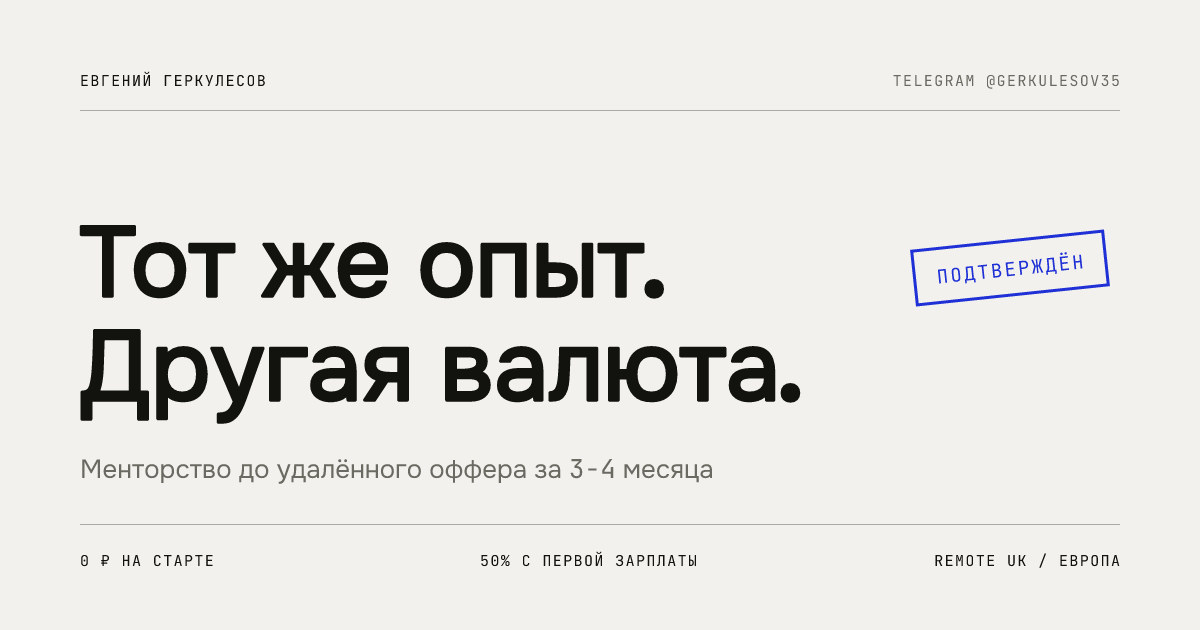
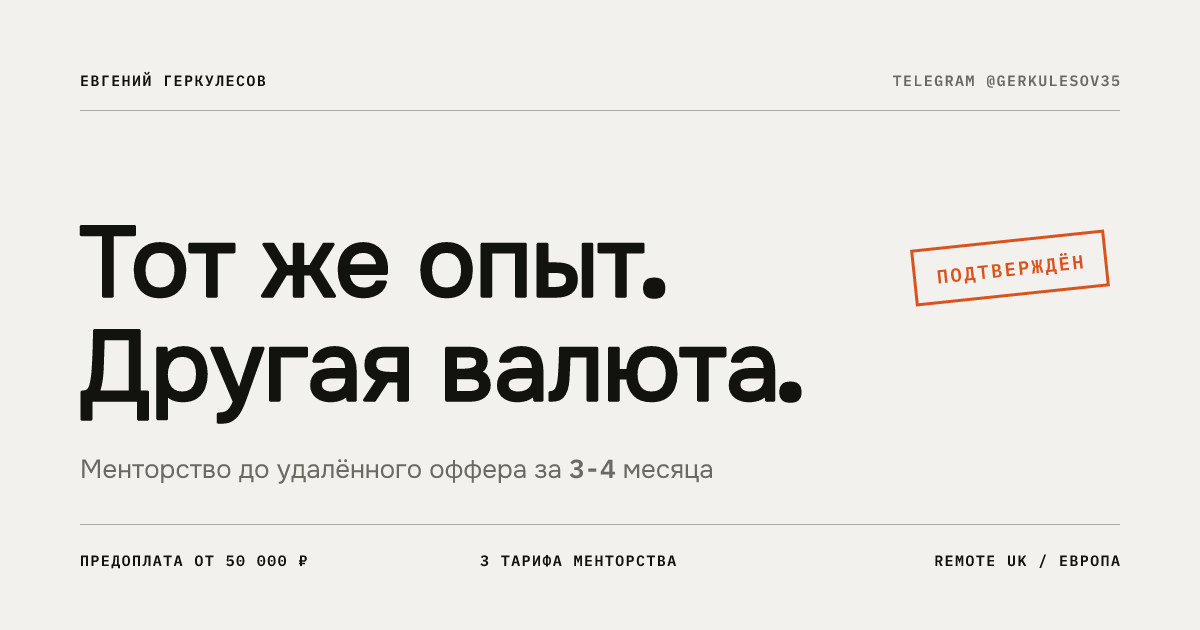
Добавить три тарифа менторства с предоплатой

diff --git a/src/i18n/ru.ts b/src/i18n/ru.ts
@@ -19,7 +19,7 @@ export const ru = {
     title: 'Евгений Геркулесов. Менторство до удалённого оффера в валюте',
     description:
       'Личное менторство для IT-специалистов с опытом: резюме и LinkedIn под remote-рынок, ' +
-      'собеседования на английском, переговоры по офферу. Ноль рублей на старте, оплата после выхода на работу.',
+      'собеседования на английском, переговоры по офферу. Три тарифа: с предоплатой и постоплатой или с полной оплатой на старте.',
   },
 
   /* short — для тесного хедера телефона: полный лейбл спорил с именем. */
@@ -101,8 +101,8 @@ export const ru = {
         'а уже к 21 работал удалённо на зарубежную компанию.',
       'Со мной, а не с командой кураторов, разберём резюме, отклики, собеседования ' +
         'и переговоры по офферу. Всё лично — без общих чатов и записанных уроков.',
-      'Почему мне можно верить: я не продаю доступ к материалам, мой доход привязан ' +
-        'к твоему офферу. Пока ты не выйдешь на работу, я зарабатываю ровно ноль.',
+      'Работа строится вокруг твоего поиска: разбираем реальные вакансии, ' +
+        'готовимся к конкретным интервью и обсуждаем условия оффера.',
     ],
   },
 
@@ -175,17 +175,18 @@ export const ru = {
   },
 
   terms: {
-    title: 'Ноль на старте. Считаю с результата',
+    title: 'Три варианта оплаты',
     body:
-      'Вся подготовка и сопровождение до оффера бесплатны. Мой счёт появляется ' +
-      'один раз, и это половина твоей первой зарплаты после выхода на работу. ' +
-      'Нет оффера, нет и счёта.',
-    panelTag: 'расчёт',
-    rows: [
-      { key: 'Первый разбор', value: '0 ₽' },
-      { key: 'Подготовка и сопровождение до оффера', value: '0 ₽' },
-    ],
-    final: { key: 'После первой зарплаты', value: '50%', note: 'один раз с первой зарплаты, дальше ничего не платишь' },
+      'Выбирай баланс между предоплатой и процентом с первых двух зарплат. ' +
+      'Или оплачивай всю работу на старте — без постоплаты.',
+    panelTag: 'тарифы менторства',
+    planLabel: 'Тариф',
+    upfrontLabel: 'Предоплата',
+    postpayLabel: 'Постоплата',
+    postpayNote: 'с каждой из первых двух зарплат',
+    noPostpayNote: 'Без постоплаты: вся стоимость — на старте.',
+    discuss: 'Обсудить тариф',
+    agreementNote: 'Выбранный тариф и порядок оплаты фиксируем в договоре до начала работы.',
   },
 
   fit: {
@@ -264,8 +265,8 @@ export const ru = {
         a: 'От трёх месяцев. Точный срок зависит от грейда, английского и того, сколько часов в неделю ты вкладываешь.',
       },
       {
-        q: 'Почему оплата после результата?',
-        a: 'Так мой доход зависит от твоего оффера, а не от того, сколько человек я записал. Нет оффера, нет и счёта.',
+        q: 'Как устроена оплата?',
+        a: 'Есть два тарифа с предоплатой и процентом с каждой из первых двух зарплат, а также тариф с полной оплатой на старте без постоплаты. Выбранные условия фиксируем в договоре до начала работы.',
       },
       {
         q: 'А если я не пройду ни одного собеседования?',
@@ -277,7 +278,7 @@ export const ru = {
   closer: {
     kicker: 'Первый разбор бесплатный',
     bigNum: '0 ₽',
-    bigNote: 'начало',
+    bigNote: 'первый разбор',
     title: 'Следующий оффер может быть твоим',
     note:
       'Созваниваемся, смотрим твой опыт, английский и цель. После этого я честно ' +

diff --git a/src/i18n/en.ts b/src/i18n/en.ts
@@ -19,7 +19,7 @@ export const en = {
     title: 'Evgeny Gerkulesov. Mentorship to a remote offer in hard currency',
     description:
       'One-on-one mentorship for experienced engineers: CV and LinkedIn built for the remote market, ' +
-      'interviews in English, offer negotiation. Nothing upfront, you pay after you start the job.',
+      'interviews in English, offer negotiation. Three payment plans: upfront plus salary-based payments, or full payment upfront.',
   },
 
   cta: { label: 'Book a review call', short: 'Book a call' },
@@ -100,8 +100,8 @@ export const en = {
       'With me, not a team of coordinators, we go through your CV, applications, ' +
         'interviews and offer negotiation. All of it personally — no group chats, ' +
         'no recorded lessons.',
-      'Why you can trust this: I am not selling access to materials. My income is tied ' +
-        'to your offer. Until you start the job, I earn exactly nothing.',
+      'The work follows your actual job search: we review real vacancies, ' +
+        'prepare for specific interviews and discuss the terms of your offer.',
     ],
   },
 
@@ -166,16 +166,18 @@ export const en = {
   },
 
   terms: {
-    title: 'Zero upfront. I bill on results',
+    title: 'Three ways to pay',
     body:
-      'All preparation and guidance up to the offer is free. My invoice arrives once, ' +
-      'and it is half of your first paycheck after you start the job. No offer, no invoice.',
-    panelTag: 'invoice',
-    rows: [
-      { key: 'First review call', value: '₽0' },
-      { key: 'Preparation and guidance up to the offer', value: '₽0' },
-    ],
-    final: { key: 'After your first paycheck', value: '50%', note: 'once, from your first paycheck, nothing after that' },
+      'Choose your balance between an upfront payment and a share of your first two salaries. ' +
+      'Or pay the full amount upfront, with no further payments.',
+    panelTag: 'mentorship plans',
+    planLabel: 'Plan',
+    upfrontLabel: 'Upfront payment',
+    postpayLabel: 'After you start the job',
+    postpayNote: 'of each of your first two salaries',
+    noPostpayNote: 'No further payments: the full price is paid upfront.',
+    discuss: 'Discuss this plan',
+    agreementNote: 'We agree on the plan and payment schedule in the contract before starting.',
   },
 
   fit: {
@@ -254,8 +256,8 @@ export const en = {
         a: 'Three months and up. The exact timeline depends on your level, your English, and how many hours you put in.',
       },
       {
-        q: 'Why do you get paid only on results?',
-        a: 'Because then my income depends on your offer, not on how many people signed up. No offer, no invoice.',
+        q: 'How does payment work?',
+        a: 'Two plans combine an upfront payment with a percentage of each of your first two salaries. A third plan is paid in full upfront, with no further payments. We agree on the terms in the contract before starting.',
       },
       {
         q: 'What if I fail every interview?',
@@ -267,7 +269,7 @@ export const en = {
   closer: {
     kicker: 'The first call is free',
     bigNum: '$0',
-    bigNote: 'the start',
+    bigNote: 'first review call',
     title: 'The next offer could be yours',
     note:
       'We get on a call and look at your experience, your English and your goal. ' +

diff --git a/src/data/pricing.ts b/src/data/pricing.ts
@@ -1,0 +1,6 @@
+/** Условия оплаты менторства. Постоплата — доля с каждой из первых двух зарплат. */
+export const pricingPlans = [
+  { id: '01', upfrontRub: 50_000, postpayPercent: 40 },
+  { id: '02', upfrontRub: 100_000, postpayPercent: 25 },
+  { id: '03', upfrontRub: 200_000, postpayPercent: 0 },
+] as const;

diff --git a/DESIGN.md b/DESIGN.md
@@ -357,11 +357,11 @@ GSAP 3.15 со ScrollTrigger + аддон `lenis/snap`.
 | `Hero` | первый экран | пин на 1.7 высоты экрана, тёмная→светлая, выезд документа JOB OFFER |
 | `Mentor` | о менторе | фото + подпись с размытой подложкой |
 | `Ladder` | путь по этапам | столбцы дохода, sqrt-масштаб, истории по наведению |
-| `Terms` | условия | панель расчёта, «после первой зарплаты — 50%» |
+| `Terms` | условия | единый бланк из трёх колонок: предоплата 50/100/200 тыс. ₽, постоплата 40%/25% с каждой из первых двух зарплат либо без неё; ниже 900px — вертикально |
 | `Fit` | кому подойдёт | бланк-анкета: номера строк, боксы отметок |
 | `Program` | программа | горизонтальный пин на десктопе, вертикальный список ниже 900px |
 | `Faq` | вопросы | `<details>` |
-| `Closer` | финал + футер | крупный «0 ₽», четыре колонки |
+| `Closer` | финал + футер | «0 ₽» относится к первому разбору; слева контакты и договор, справа реквизиты |
 | `Cursor` | курсор | только для `hover: hover` |
 | `DocPage` | правовые страницы | оферта, договор, политика |
 

diff --git a/BRIEF.md b/BRIEF.md
@@ -9,6 +9,21 @@
 Файл ведётся по ходу интервью. Реализация любой секции начинается только после
 того, как её раздел здесь закрыт.
 
+## Актуальная оплата — 22.10.2026
+
+Предыдущая версия сохранена тегом `snapshot/before-pricing-2026-10-22`.
+Новая модель заменяет прежнее «0 ₽ на старте / 50% первой зарплаты»:
+
+| Тариф | Предоплата | Постоплата |
+|---|---|---|
+| 01 | 50 000 ₽ | 40% с каждой из первых двух зарплат |
+| 02 | 100 000 ₽ | 25% с каждой из первых двух зарплат |
+| 03 | 200 000 ₽ | Нет |
+
+Первый разбор остаётся бесплатным. Договор опубликован как проект и пока
+не редактируется. Числовые условия заданы в `src/data/pricing.ts`.
+Записи о предыдущей модели ниже относятся к истории дизайна.
+
 ---
 
 ## 1. Стек и инструменты
